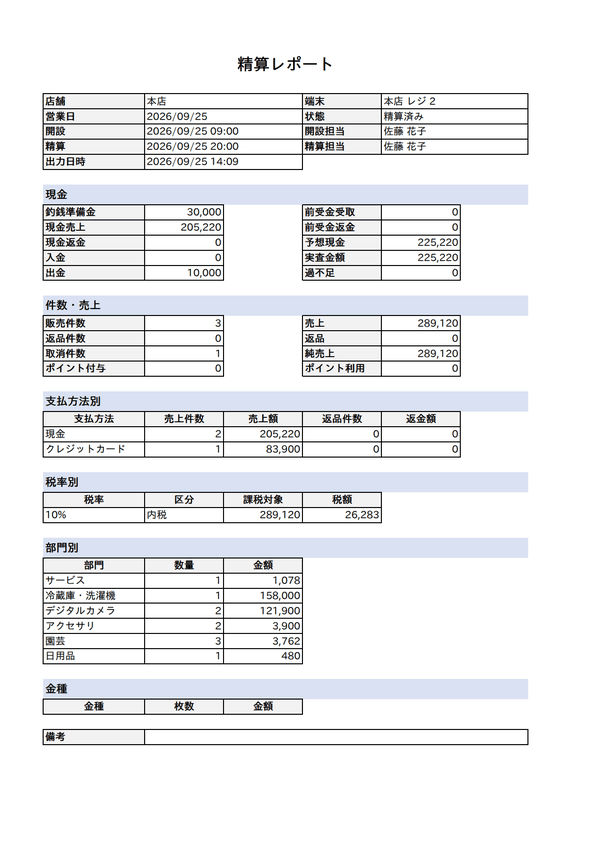
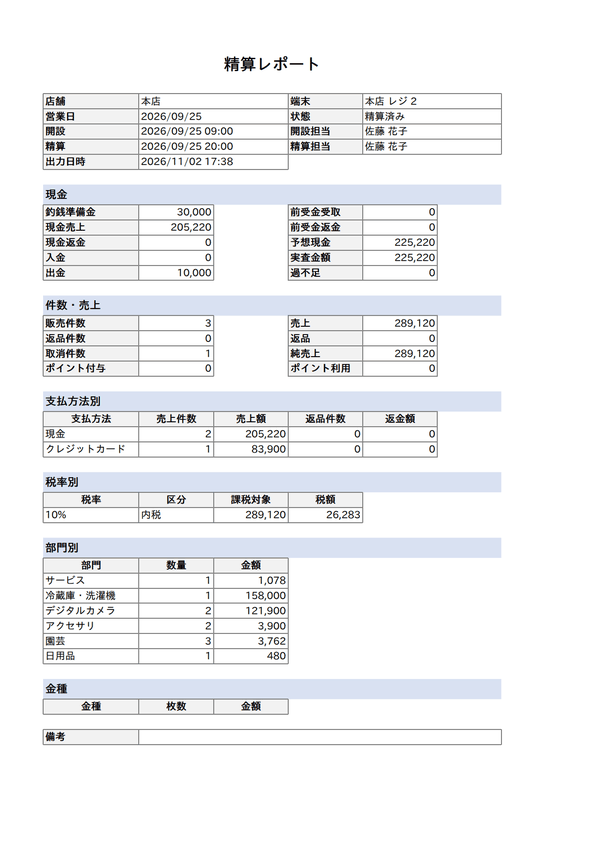
Update

diff --git a/.claude/skills/readme-images/scripts/report_steps.py b/.claude/skills/readme-images/scripts/report_steps.py
@@ -26,10 +26,11 @@ REPORTS = [
         const p = j.items.find(x => !x.note) ?? j.items[0];
         return '{API}/inventory/purchase-orders/' + p.id + '/pdf';
     }})()"""),
-    # 精算レポート: 精算済みのシフト
+    # 精算レポート: 販売のある精算済みのシフト (なければ最初の精算済みのシフト)
     ('report-shift', f"""(async () => {{
-        const j = await (await fetch('{API}/shifts?status=Closed&size=1')).json();
-        return '{API}/shifts/' + j.items[0].id + '/summary/pdf';
+        const j = await (await fetch('{API}/shifts?status=Closed&size=20')).json();
+        const s = j.items.find(x => x.totals.salesCount > 0) ?? j.items[0];
+        return '{API}/shifts/' + s.id + '/summary/pdf';
     }})()"""),
     # 売上日報: 締め済みの店舗 × 営業日
     ('report-daily-sales', f"""(async () => {{
